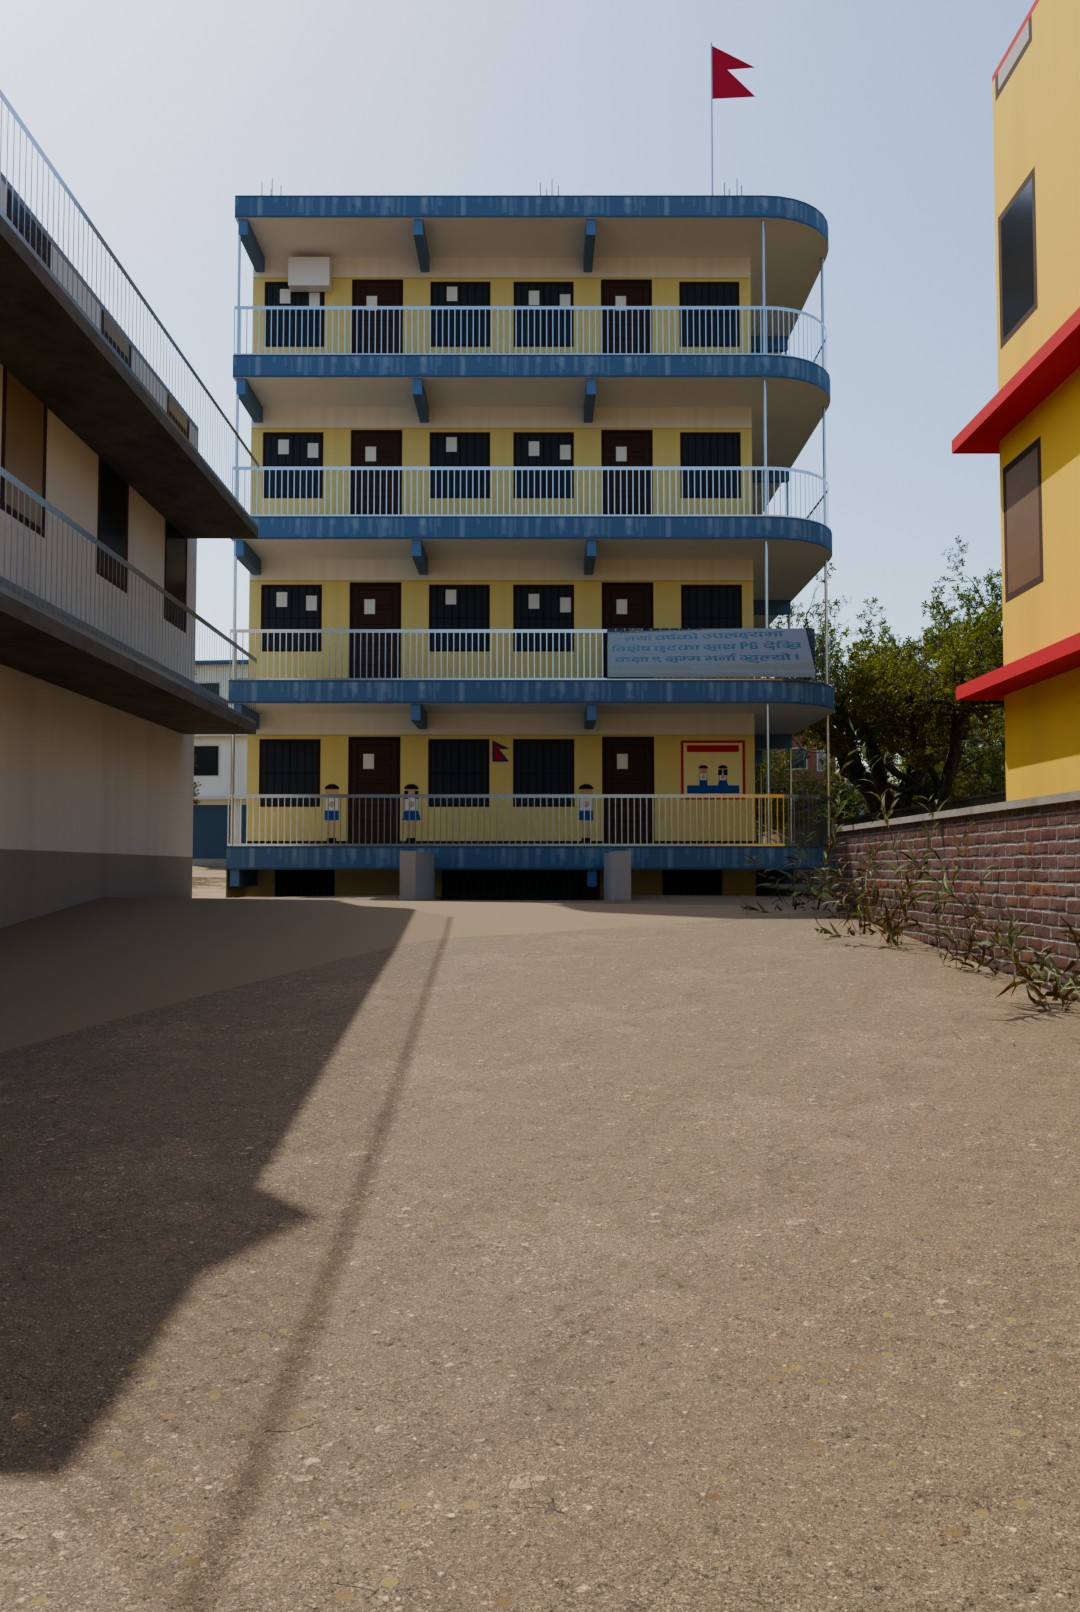
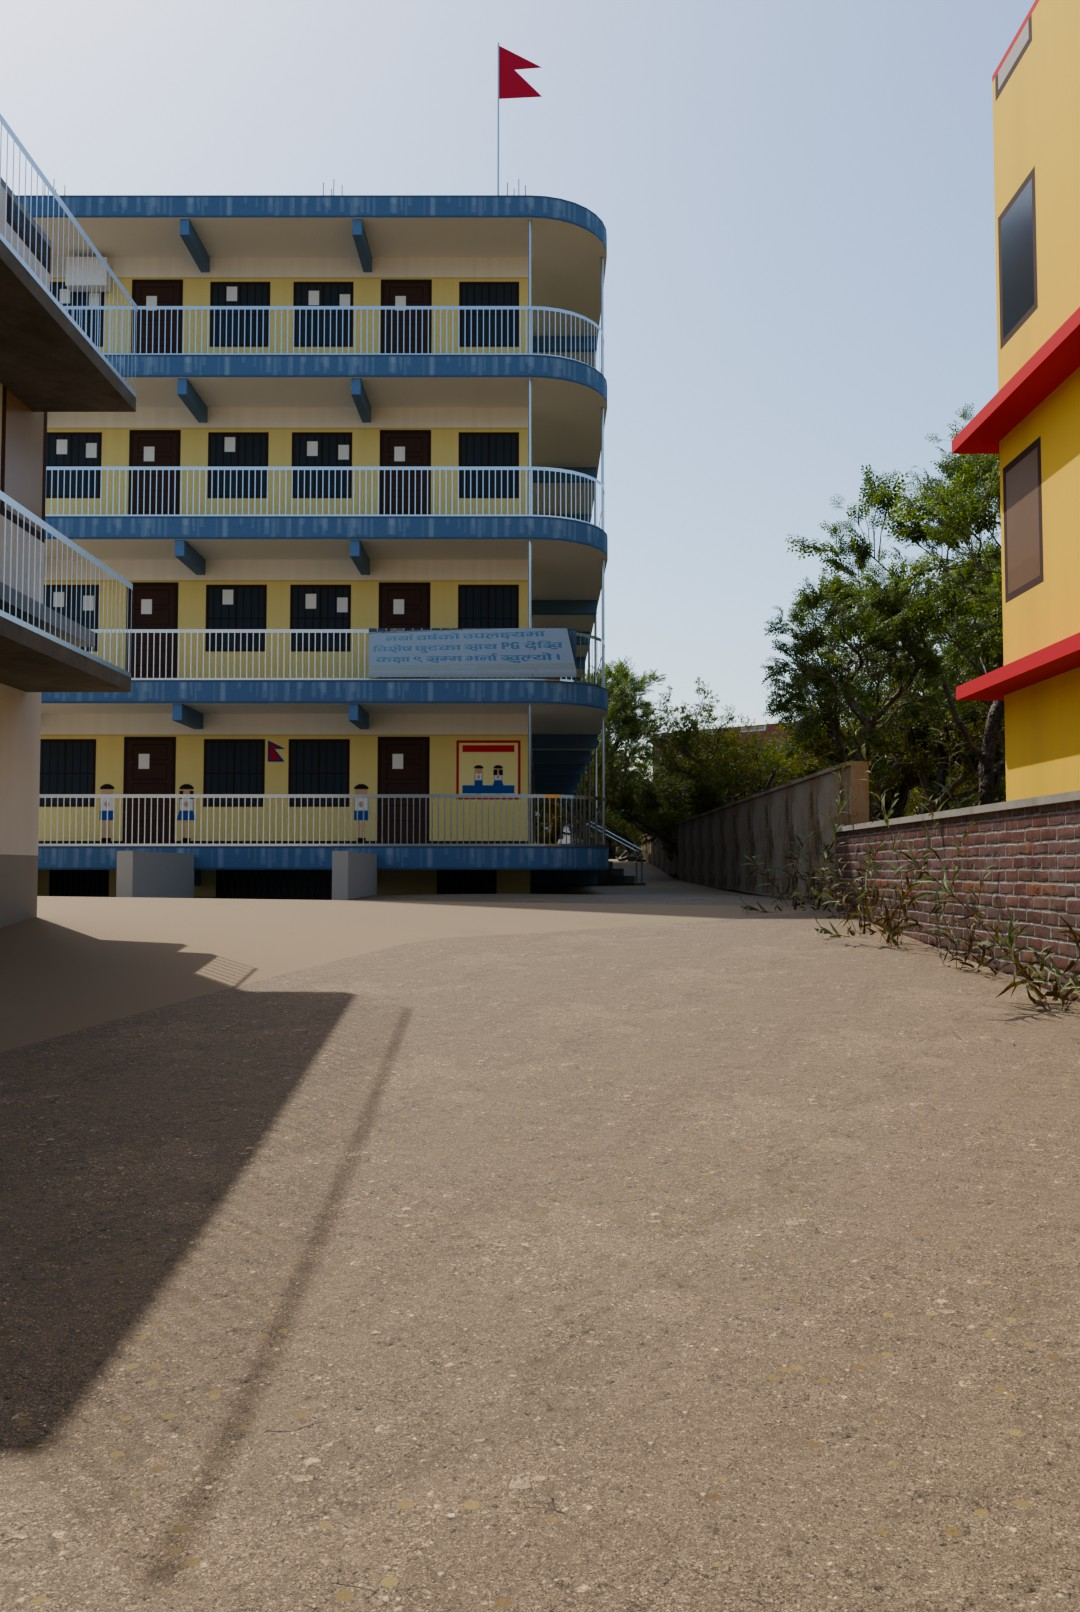
fix(website): the side path is a gap you can see and walk
The school stood too far right: its corner covered the driveway's
right-hand wall line, so no path showed beside it. In IMG_3017 that wall
runs straight on past the building, which stands centre-left; the 3 m
between the wall and the long side's corridor is the side path of
IMG_3055. The school moves 4.6 m left (its design unchanged), the wall
line continues as the boundary wall in concrete blocks, and the steps,
entrance, ramp and cameras move with it. The balconied house on the
driveway's left is shortened so the school's left end shows, as in the
photo.

diff --git a/website/src/sections/Arrival.tsx b/website/src/sections/Arrival.tsx
@@ -14,7 +14,7 @@ const VIEWS = [
   { name: 'driveway', focus: [0.53, 0.62], dolly: 0.6 },
   { name: 'sidepath', focus: [0.55, 0.56], dolly: 0.5 },
   { name: 'entrance', focus: [0.53, 0.6], dolly: 0.45 },
-].map((w) => ({ ...w, color: `/models/env/${w.name}_color_10120031.webp`, depth: `/models/env/${w.name}_depth_10120031.png` }));
+].map((w) => ({ ...w, color: `/models/env/${w.name}_color_10120049.webp`, depth: `/models/env/${w.name}_depth_10120049.png` }));
 const DOLLY = ['d0', 'd1', 'd2', 'd3'] as const;
 
 const VERT = `attribute vec2 p; varying vec2 v; void main() { v = p * .5 + .5; gl_Position = vec4(p, 0., 1.); }`;

diff --git a/website/model/env/env_school.py b/website/model/env/env_school.py
@@ -12,8 +12,11 @@ from mathutils import Vector
 ST = DATA
 SF = 30.5            # front corridor's outer edge, metres along the driveway (photo GPS: its corner is ~29 m in)
 CORR = 1.6           # corridor depth
-TL = 7.0             # the front's left end (square)
-TR = -5.0            # outer edge of the side corridor (the viewer's right)
+# The school stands left of the driveway's right-hand wall line (t = -3.3), which runs on past it: the 3 m between
+# that wall and the long side's corridor is the side path (IMG_3017: the building sits centre-left; IMG_3055).
+WALL_T = -3.3
+TL = 11.6            # the front's left end (square)
+TR = WALL_T + 2.9    # outer edge of the side corridor (the viewer's right)
 TC = TR + CORR       # the core's right wall
 SB = 60.5            # the back
 R = 1.6              # the rounded corner's radius
@@ -165,12 +168,12 @@ wall_strip('GEO-school_left_end_cap', (SF + CORR, TL), (SF, TL), 0.0, Z0, SM['pl
 
 # --- the banner on the first-floor railing (IMG_3017, IMG_3019) ---------------------------------------------------
 z = LEVELS[1]
-wall_strip('GEO-school_banner', (SF - 0.03, -0.3), (SF - 0.03, -4.3), z + 0.05, z + 1.0, SM['banner'], 1.0)
+wall_strip('GEO-school_banner', (SF - 0.03, TL - 7.3), (SF - 0.03, TL - 11.3), z + 0.05, z + 1.0, SM['banner'], 1.0)
 
 # --- the roof: rebar left up for another floor, the stair head, the AC unit, the flag -----------------------------
 roof = LEVELS[-1]
 bm = bmesh.new()
-spots = [(SF + CORR + 0.3, TL - 0.3), (SF + CORR + 0.3, TC + 0.3), (SF + CORR + 0.3, 0.8)]
+spots = [(SF + CORR + 0.3, TL - 0.3), (SF + CORR + 0.3, TC + 0.3), (SF + CORR + 0.3, TL - 6.2)]
 s = SF + CORR + 3.95
 while s < SB - 0.5:
     spots += [(s, TC + 0.3), (s, TL - 0.3)]; s += 3.95
@@ -207,13 +210,14 @@ SM['bwall'] = pbr('MAT-boundary_wall_blocks', 'concrete_wall_003', 2.0, tint='#b
 SM['ramp'] = flat('MAT-ramp_concrete', '#87847d', 0.9)
 
 # --- the side path, from the corner to the back, under the corridor's overhang, up to the boundary wall ---------
-strip('GEO-side_path', SF - 1.0, SB, -8.4, TC, MAT['drive'], lift=0.05)
-box('GEO-boundary_wall', SF - 6.0, SB, -8.7, -8.42, 0, 1.9, SM['bwall'])
-box('GEO-boundary_wall_cap', SF - 6.0, SB, -8.74, -8.38, 1.9, 1.96, SM['bwall'])
+strip('GEO-side_path', SF - 1.0, SB, WALL_T, TC, MAT['drive'], lift=0.05)
+# the boundary wall: the driveway's wall line, in concrete blocks from where the brick ends
+box('GEO-boundary_wall', 24.0, SB, WALL_T - 0.3, WALL_T - 0.05, 0, 1.9, SM['bwall'])
+box('GEO-boundary_wall_cap', 24.0, SB, WALL_T - 0.34, WALL_T - 0.01, 1.9, 1.96, SM['bwall'])
 import random as _r2
 _rr = _r2.Random(19); s_ = SF - 4.0
 while s_ < SB:                      # banana plants and bushes behind the wall
-    tree(f'GEO-behind_wall_{s_:.1f}', _rr.choice(['shrub_02_a_LOD1', 'shrub_02_c_LOD1']), s_, -9.6 - _rr.uniform(0, 1.2),
+    tree(f'GEO-behind_wall_{s_:.1f}', _rr.choice(['shrub_02_a_LOD1', 'shrub_02_c_LOD1']), s_, WALL_T - 1.2 - _rr.uniform(0, 1.2),
          _rr.uniform(1.8, 2.6), _rr.uniform(0, 6.28))
     s_ += _rr.uniform(2.0, 3.5)
 
@@ -269,6 +273,6 @@ mesh('GEO-ramp', lambda bm, uvl: quad(bm, uvl, P(RS0, RT0, 0.02), P(RS0, RT1, 0.
 wall_strip('GEO-school_basement_gate_deep', (RS1 - 0.02, GATE_T + 1.55), (RS1 - 0.02, GATE_T - 1.55), -DEPTH, 0.95, SM['gate'], 1.0)
 
 # --- the walk's two new views: round the corner onto the side path; at the foot of the entrance steps ------------
-camera('CAM-sidepath', SF - 1.5, -6.7, 1.55, 22.0, pitch=4.0, yaw=-6.0)
-camera('CAM-entrance', S_ENT - 0.3, -8.0, 1.6, 20.0, pitch=10.0, yaw=-90.0)
+camera('CAM-sidepath', SF - 2.0, WALL_T + 1.2, 1.55, 22.0, pitch=4.0, yaw=-4.0)
+camera('CAM-entrance', S_ENT - 0.3, WALL_T + 0.25, 1.6, 16.0, pitch=12.0, yaw=-90.0)
 print('school built')

diff --git a/website/model/env/build_street.py b/website/model/env/build_street.py
@@ -16,7 +16,7 @@ G = {'__name__': '__main__',
 M = (4.0, 7.3); b = math.radians(241.0); U = (math.sin(b), math.cos(b)); L = (-U[1], U[0])
 def W(s, t): return (M[0] + U[0] * s + L[0] * t, M[1] + U[1] * s + L[1] * t)
 G['SX_CLEAR'] = [[W(-2, -3.3), W(32, -3.3), W(32, 5.6), W(-2, 5.6)],
-                 [W(19, -10), W(62, -10), W(62, 12), W(19, 12)],
+                 [W(19, -3.3), W(64, -3.3), W(64, 16), W(19, 16)],
                  [W(-16, -9), W(-1, -9), W(-1, 9), W(-16, 9)]]       # the road where Google's camera stood
 # footprints corrected from Street View: the shop house faces the road beside the driveway's mouth,
 # the cream house stands behind the sign and the gate
@@ -28,7 +28,7 @@ G['SX_OVERRIDE'][388610115] = {'floors': 3, 'wall': '#f1dac6', 'tin': True, 'roo
 G['SX_OVERRIDE'][388610114]['p'] = [W(12.0, -10.5), W(12.0, -4.4), W(21.0, -4.4), W(21.0, -10.5)]
 # the house with stacked balconies on the driveway's left, past the shop house (IMG_3017, the video)
 G['SX_OVERRIDE'][388610110] = {'floors': 2, 'wall': '#d6d3cb', 'ledge': '#8f949a', 'tin': False,
-                               'p': [W(12.6, 6.4), W(26.0, 6.4), W(26.0, 15.0), W(12.6, 15.0)]}
+                               'p': [W(12.6, 6.4), W(20.0, 6.4), W(20.0, 15.0), W(12.6, 15.0)]}
 import bpy
 for n in ('Cube', 'Light', 'Camera'):          # the new-file defaults
     o = bpy.data.objects.get(n)

diff --git a/website/model/env/env_street.py b/website/model/env/env_street.py
@@ -157,7 +157,7 @@ def strip(name, s0, s1, t0, t1, mat, lift=0.06, step=1.0):
 
 # --- the driveway and the yard in front of the school -------------------------------------------------------
 strip('GEO-driveway', -0.2, 30.5, -3.1, 5.8, MAT['drive'])
-strip('GEO-school_forecourt', 20.0, 31.0, -8.0, 9.0, MAT['drive'], lift=0.05)
+strip('GEO-school_forecourt', 20.0, 31.0, -3.1, 13.0, MAT['drive'], lift=0.05)
 
 # --- right side: brick wall along the driveway, the signboard at its start, the gate on the road ------------------
 # The right-hand wall: a short run of yellow plaster at the mouth, then brick deeper in (IMG_3014).
@@ -332,7 +332,7 @@ me.materials.append(MAT['tin_red']); me.materials.append(MAT['tin_under'])
 obj('GEO-cream_house_roof', me)
 # the house beyond it: stacked balconies with steel railings, facing the driveway
 for z in (3.0, 6.0):
-    balcony_driveway(13.2, 25.4, 6.4, -1, z, 'rail')
+    balcony_driveway(13.2, 19.6, 6.4, -1, z, 'rail')
 
 # --- weeds and shrubs along the foot of the right-hand wall (IMG_3017) ----------------------------------------
 import random as _r
